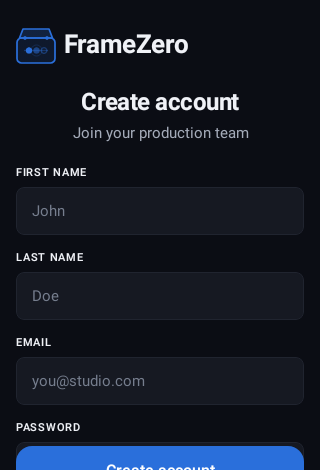
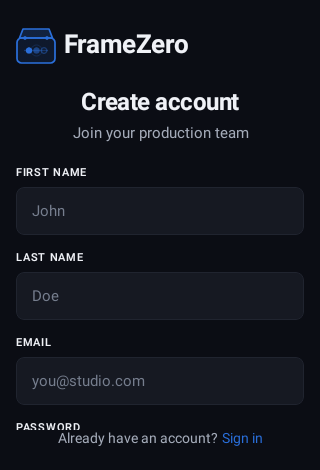
Libs update 2 (#31)

Changed region(s): [[0.0312, 0.8936, 0.9688, 1.0]]

diff --git a/composeApp/features/auth/src/commonMain/kotlin/com/frame/zero/feature/auth/ui/register/RegisterScreen.kt b/composeApp/features/auth/src/commonMain/kotlin/com/frame/zero/feature/auth/ui/register/RegisterScreen.kt
@@ -3,11 +3,12 @@ package com.frame.zero.feature.auth.ui.register
 import androidx.compose.foundation.background
 import androidx.compose.foundation.layout.Box
 import androidx.compose.foundation.layout.Column
-import androidx.compose.foundation.layout.Spacer
 import androidx.compose.foundation.layout.fillMaxSize
 import androidx.compose.foundation.layout.fillMaxWidth
 import androidx.compose.foundation.layout.padding
 import androidx.compose.foundation.layout.systemBarsPadding
+import androidx.compose.foundation.rememberScrollState
+import androidx.compose.foundation.verticalScroll
 import androidx.compose.runtime.Composable
 import androidx.compose.runtime.getValue
 import androidx.compose.ui.Modifier
@@ -67,49 +68,50 @@ internal fun RegisterContent(
       .padding(horizontal = spacingSystem.space16)
       .systemBarsPadding()
   ) {
-    VerticalSpacer(spacingSystem.space24)
-    AuthLogoHeader()
-    VerticalSpacer(spacingSystem.space24)
-    RegisterHeader()
-    VerticalSpacer(spacingSystem.space24)
-    RegisterFirstNameField(
-      value = state.firstName,
-      onValueChange = { onIntent(RegisterIntent.FirstNameChanged(it)) },
-      enabled = !state.isLoading
-    )
-    VerticalSpacer(spacingSystem.space16)
-    RegisterLastNameField(
-      value = state.lastName,
-      onValueChange = { onIntent(RegisterIntent.LastNameChanged(it)) },
-      enabled = !state.isLoading
-    )
-    VerticalSpacer(spacingSystem.space16)
-    RegisterEmailField(
-      value = state.email,
-      onValueChange = { onIntent(RegisterIntent.EmailChanged(it)) },
-      enabled = !state.isLoading
-    )
-    VerticalSpacer(spacingSystem.space16)
-    RegisterPasswordField(
-      value = state.password,
-      onValueChange = { onIntent(RegisterIntent.PasswordChanged(it)) },
-      enabled = !state.isLoading
-    )
-    VerticalSpacer(spacingSystem.space24)
-    CtaButton(
-      text = stringResource(Res.string.btn_create_account),
-      loading = state.isLoading,
-      onClick = { onIntent(RegisterIntent.Submit) },
-      modifier = Modifier.fillMaxWidth().testTag(RegisterTestTags.SUBMIT)
-    )
-    state.error?.let { error ->
-      VerticalSpacer(spacingSystem.space8)
-      ErrorText(
-        text = error.asString(),
-        modifier = Modifier.testTag(RegisterTestTags.ERROR)
+    Column(modifier = Modifier.weight(1f).verticalScroll(rememberScrollState())) {
+      VerticalSpacer(spacingSystem.space24)
+      AuthLogoHeader()
+      VerticalSpacer(spacingSystem.space24)
+      RegisterHeader()
+      VerticalSpacer(spacingSystem.space24)
+      RegisterFirstNameField(
+        value = state.firstName,
+        onValueChange = { onIntent(RegisterIntent.FirstNameChanged(it)) },
+        enabled = !state.isLoading
       )
+      VerticalSpacer(spacingSystem.space16)
+      RegisterLastNameField(
+        value = state.lastName,
+        onValueChange = { onIntent(RegisterIntent.LastNameChanged(it)) },
+        enabled = !state.isLoading
+      )
+      VerticalSpacer(spacingSystem.space16)
+      RegisterEmailField(
+        value = state.email,
+        onValueChange = { onIntent(RegisterIntent.EmailChanged(it)) },
+        enabled = !state.isLoading
+      )
+      VerticalSpacer(spacingSystem.space16)
+      RegisterPasswordField(
+        value = state.password,
+        onValueChange = { onIntent(RegisterIntent.PasswordChanged(it)) },
+        enabled = !state.isLoading
+      )
+      VerticalSpacer(spacingSystem.space24)
+      CtaButton(
+        text = stringResource(Res.string.btn_create_account),
+        loading = state.isLoading,
+        onClick = { onIntent(RegisterIntent.Submit) },
+        modifier = Modifier.fillMaxWidth().testTag(RegisterTestTags.SUBMIT)
+      )
+      state.error?.let { error ->
+        VerticalSpacer(spacingSystem.space8)
+        ErrorText(
+          text = error.asString(),
+          modifier = Modifier.testTag(RegisterTestTags.ERROR)
+        )
+      }
     }
-    Spacer(modifier = Modifier.weight(1f))
     RegisterFooter(
       isLoading = state.isLoading,
       onSignInClick = onSignInClick

diff --git a/composeApp/features/auth/src/androidHostTest/kotlin/com/frame/zero/feature/auth/ui/register/RegisterContentTest.kt b/composeApp/features/auth/src/androidHostTest/kotlin/com/frame/zero/feature/auth/ui/register/RegisterContentTest.kt
@@ -4,6 +4,7 @@ import androidx.compose.ui.test.junit4.v2.createComposeRule
 import androidx.compose.ui.test.onNodeWithTag
 import androidx.compose.ui.test.onNodeWithText
 import androidx.compose.ui.test.performClick
+import androidx.compose.ui.test.performScrollTo
 import com.frame.zero.feature.auth.register.RegisterIntent
 import com.frame.zero.feature.auth.register.RegisterState
 import com.frame.zero.feature.auth.ui.register.RegisterTestTags.ERROR
@@ -48,7 +49,7 @@ class RegisterContentTest {
       onIntent = { intents += it }
     )
 
-    composeRule.onNodeWithTag(SUBMIT).performClick()
+    composeRule.onNodeWithTag(SUBMIT).performScrollTo().performClick()
 
     assert(intents == listOf(RegisterIntent.Submit)) { "Expected [Submit], got $intents" }
   }

diff --git a/composeApp/shared/design_system/src/commonMain/kotlin/com/frame/zero/shared/design_system/widgets/CtaButton.kt b/composeApp/shared/design_system/src/commonMain/kotlin/com/frame/zero/shared/design_system/widgets/CtaButton.kt
@@ -10,6 +10,7 @@ import androidx.compose.foundation.layout.size
 import androidx.compose.foundation.shape.RoundedCornerShape
 import androidx.compose.foundation.style.ExperimentalFoundationStyleApi
 import androidx.compose.foundation.style.Style
+import androidx.compose.foundation.style.border
 import androidx.compose.foundation.style.disabled
 import androidx.compose.foundation.style.rememberUpdatedStyleState
 import androidx.compose.foundation.style.styleable
